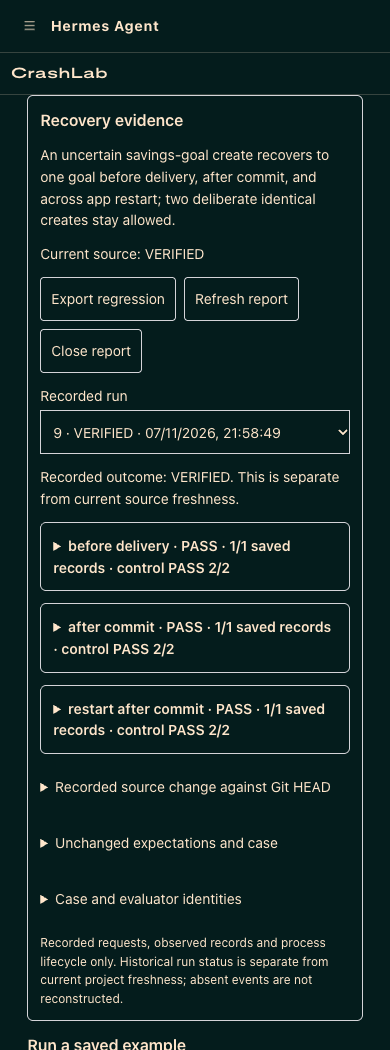
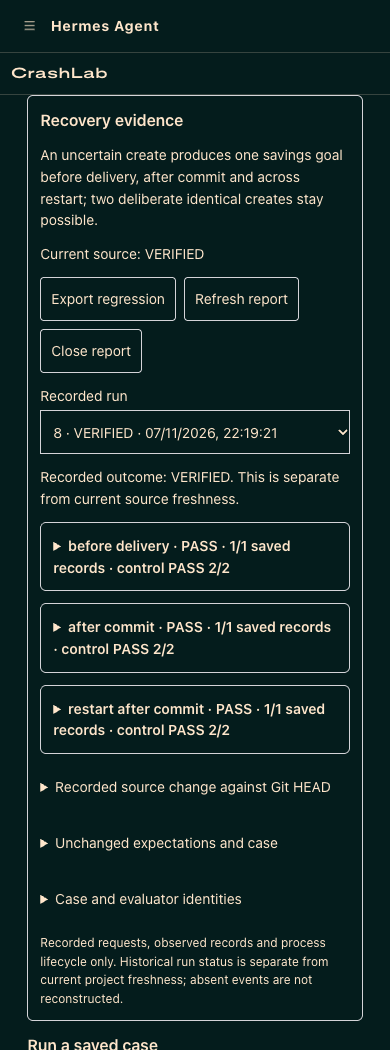
Align replay bundle with reviewed evaluator and clarify first-run examples

Changed region(s): [[0.0923, 0.1219, 0.8923, 0.2133], [0.3385, 0.9752, 0.4923, 1.0], [0.5846, 0.3962, 0.7077, 0.4267]]

diff --git a/dashboard/dist/index.js b/dashboard/dist/index.js
@@ -307,7 +307,8 @@
       reportBusy ? h('p', { key: 'report-loading', role: 'status' }, 'Loading recorded evidence…') : null,
       reportError ? h('p', { key: 'report-error', role: 'alert' }, reportError) : null,
       reportData ? h(ExperimentReport, { key: 'report', data: reportData, currentStatus: reportData.current_status, onSelect: index => showReport(reportData.experiment_id, index), onExport: exportReport, onClose: () => { reportSequence.current++; setReportData(null); requestAnimationFrame(() => reportLauncher.current?.focus()) }, exporting, exportMessage }) : null,
-      h('h2', { key: 'examples', style: { fontSize: 16, fontWeight: 600 } }, 'Run a saved example'),
+      h('h2', { key: 'examples', style: { fontSize: 16, fontWeight: 600 } }, 'Run a saved case'),
+      h('p', { key: 'example-note', style: { color: 'var(--text-secondary, currentColor)' } }, 'Bundled checkout and booking cases are deliberately buggy/fixed pairs. A failure on a buggy example is expected.'),
       h('div', { key: 'controls', style: { display: 'flex', gap: 8, alignItems: 'center' } }, [
         h('select', {
           key: 'select',

diff --git a/external/flaskr/README.md b/external/flaskr/README.md
@@ -87,3 +87,16 @@ login and create workflow without injected failure. That passing transfer is
 separate from the native POST repair above. To use it, configure its app checkout
 and interpreter and call the installed `crashlab_run` tool; `crashlab_core.py`
 is a library, not an executable command-line entry point.
+
+
+## Recovery replay on the corrected evaluator
+
+The [three-boundary replay](evidence/2026-11-07-recovery/summary.json) uses the
+reviewed `6eaf34f` evaluator through native Hermes registry dispatch. The original
+retained Flaskr patch reproduces the upstream failure and passes before-delivery,
+after-commit and restart-before-retry cases, each with its 2/2 deliberate-use
+control. This is a retained-patch replay, not a new model repair or end-user trial.
+The launch template initializes a missing disposable database and preserves it
+on restart; restarting against a fresh empty database would not test retention.
+Existing production databases still need a migration, and legacy tokenless POSTs
+remain outside the retry guarantee.
